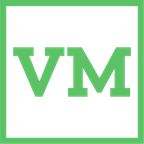
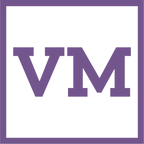
Purple is the new green

diff --git a/css/layout.css b/css/layout.css
@@ -36,30 +36,26 @@ h6 {
 	--max-width-desktop: calc(var(--max-width-mobile) - var(--sidebar-width));
 }
 
-body[data-theme="auto"] {
-	--textColor: rgb(42, 42, 42);
+body,
+body[data-theme="auto"],
+body[data-theme="light"] {
+	--textColor: black;
 	--backgroundColor: rgb(237, 237, 237);
-	--themeColor: hsla(125, 51%, 32%, 1);
+	--themeColor: rgb(153, 51, 200);
 }
 
 @media (prefers-color-scheme: dark) {
 	body[data-theme="auto"] {
 		--textColor: rgb(237, 237, 237);
-		--backgroundColor: rgb(42, 42, 42);
-		--themeColor: rgb(92, 194, 101);
+		--backgroundColor: black;
+		--themeColor: rgb(182, 63, 236);
 	}
 }
 
 body[data-theme="dark"] {
 	--textColor: rgb(237, 237, 237);
-	--backgroundColor: rgb(42, 42, 42);
-	--themeColor: rgb(92, 194, 101);
-}
-
-body[data-theme="light"] {
-	--textColor: rgb(42, 42, 42);
-	--backgroundColor: rgb(237, 237, 237);
-	--themeColor: hsla(125, 51%, 32%, 1);
+	--backgroundColor: black;
+	--themeColor: rgb(182, 63, 236);
 }
 
 body,

diff --git a/css/home.css b/css/home.css
@@ -1,9 +1,12 @@
 main.home {
+	--heading-margin: var(--s1);
+
 	max-width: 90ch;
 	display: grid;
 	grid-template-columns: 1fr 1fr;
 	align-content: flex-start;
 	grid-column-gap: var(--s2);
+	margin-top: calc(-1 * var(--heading-margin));
 }
 
 main.home h1,
@@ -64,4 +67,5 @@ main.home h1,
 main.home h2 {
 	border-bottom: 2px solid var(--themeColor);
 	padding-bottom: var(--s-3);
+	margin-top: var(--heading-margin);
 }

diff --git a/css/utility.css b/css/utility.css
@@ -59,9 +59,14 @@
 
 /* stack */
 
-.stack > * + * {
+.stack > * + *,
+.sub-stack > * + * {
 	margin-top: var(--s0);
 	margin-top: var(--stack-margin);
+}
+
+.sub-stack > * + * {
+	--stack-margin: inherit;
 }
 
 /* hack to avoid nested stacks from interfering with each other */

diff --git a/css/sidebar.css b/css/sidebar.css
@@ -109,6 +109,14 @@ body[data-theme="light"] [data-theme="light"] {
 	}
 }
 
+.p-note :first-child {
+	margin-top: 0;
+}
+
+.p-note :last-child {
+	margin-bottom: 0;
+}
+
 .p-note dl dt {
 	font-weight: bolder;
 }
